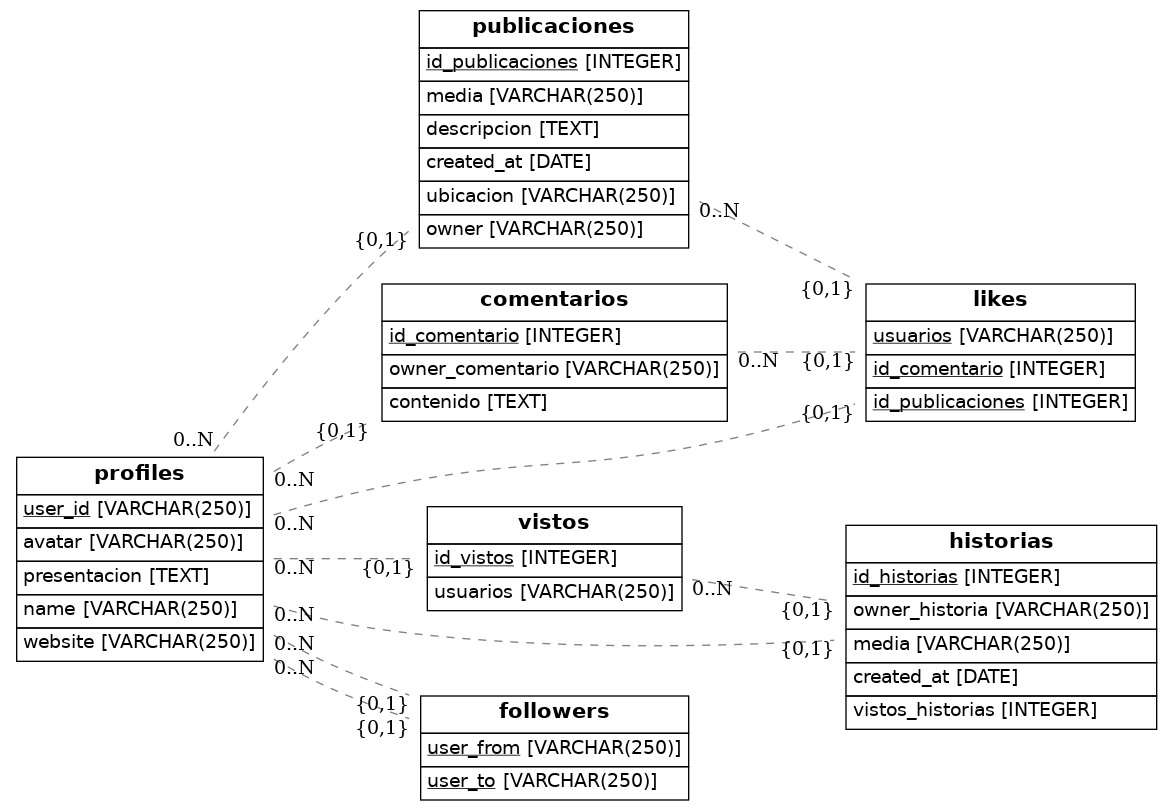
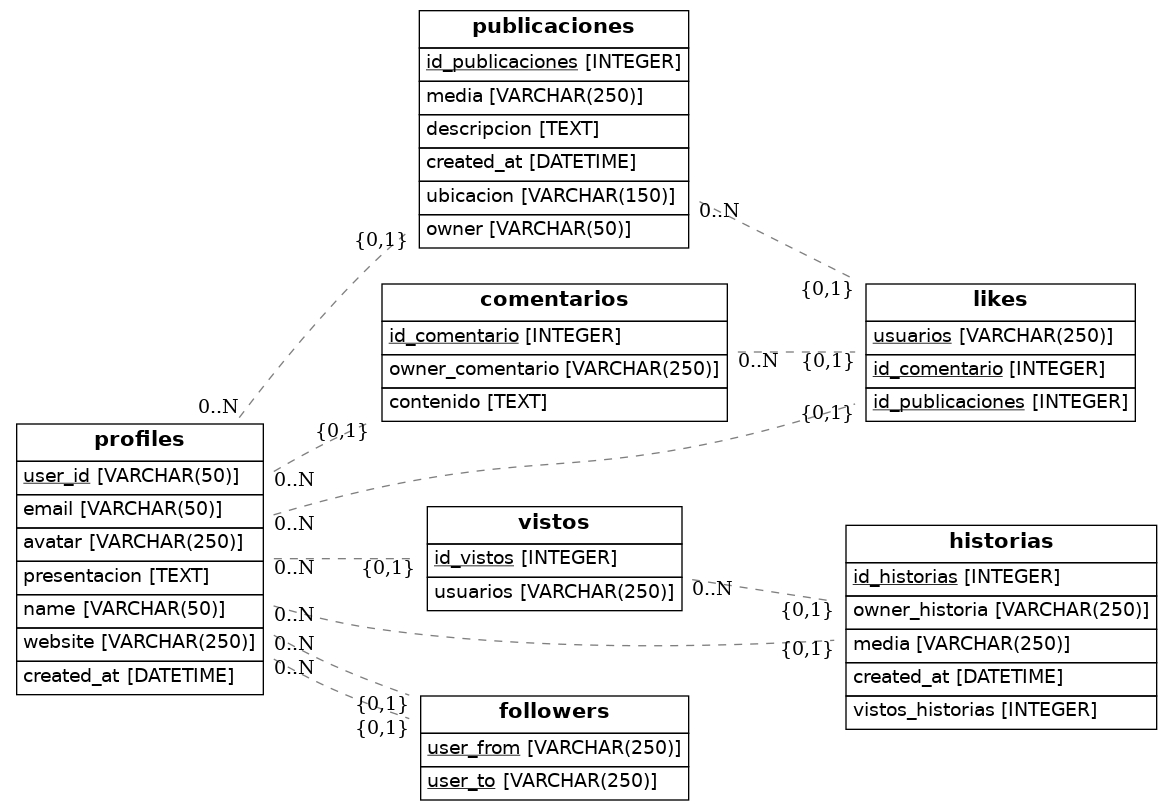
create Publicacion model

diff --git a/src/models.py b/src/models.py
@@ -1,8 +1,6 @@
 from sqlalchemy import Column, ForeignKey, Integer, String, Text, DateTime
 from sqlalchemy.ext.declarative import declarative_base
 from datetime import datetime
-from sqlalchemy.orm import relationship
-from sqlalchemy import create_engine
 from eralchemy import render_er
 
 Base = declarative_base()
@@ -21,12 +19,12 @@ class Profile(Base):
 class Publicacion(Base):
     __tablename__ = 'publicaciones'
     # Here we define columns for the table publicaciones.
-    id_publicaciones = Column(Integer, primary_key=True)
+    id_publicaciones = Column(Integer(), primary_key=True)
     media = Column(String(250))
-    descripcion = Column(Text)
+    descripcion = Column(Text())
     created_at = Column(DateTime(), default=datetime.now())
-    ubicacion = Column(String(250))
-    owner = Column(String(250), ForeignKey('profiles.user_id'))
+    ubicacion = Column(String(150))
+    owner = Column(String(50), ForeignKey('profiles.user_id'), nullable=False)
 
 
 class Comentario(Base):
@@ -63,9 +61,6 @@ class Followers(Base):
     # Here we define columns for the table followers.
     user_from = Column(String(250), ForeignKey('profiles.user_id'), primary_key=True)
     user_to = Column(String(250), ForeignKey('profiles.user_id'), primary_key=True)
-
-def to_dict(self):
-        return {}
 
 ## Draw from SQLAlchemy base
 try:
